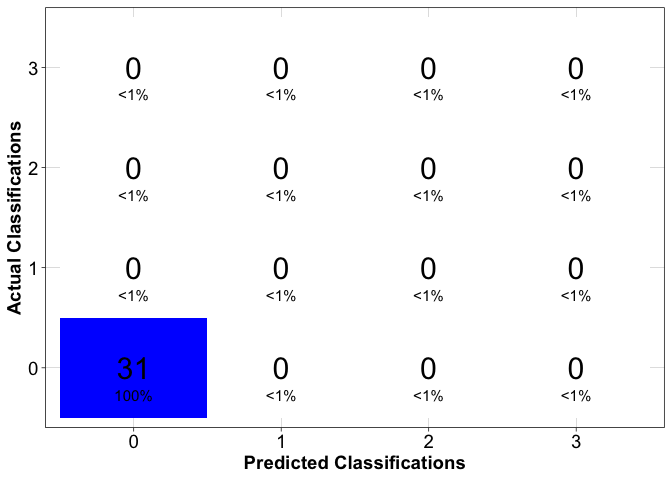
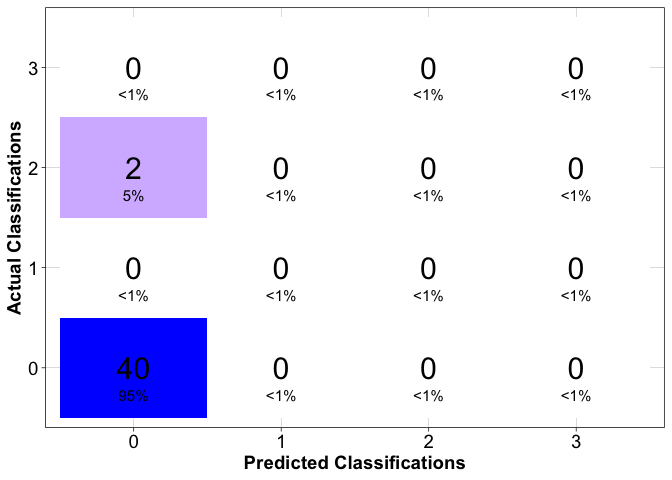
New forecast 6 May 2022

Changed region(s): [[0.0625, 0.2188, 0.3125, 0.4688], [0.1562, 0.75, 0.2188, 0.8438]]

diff --git a/README.md b/README.md
@@ -71,7 +71,7 @@ predictions <- pspforecast::read_forecast()
 glimpse(predictions)
 ```
 
-    ## Rows: 45
+    ## Rows: 56
     ## Columns: 18
     ## $ version             <chr> "v0.1.3", "v0.1.3", "v0.1.3", "v0.1.3", "v0.1.3", …
     ## $ ensemble_n          <dbl> 10, 10, 10, 10, 10, 10, 10, 10, 10, 10, 10, 10, 10…
@@ -100,4 +100,4 @@ glimpse(predictions)
 
 ### Last Updated
 
-    ## [1] "2022-05-02"
+    ## [1] "2022-05-06"
